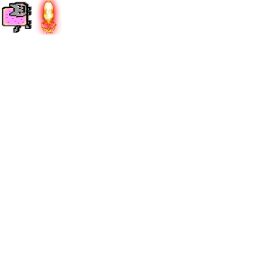
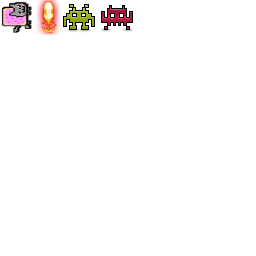
Tutorial 11, added enemies, new Global class for textures

Changed region(s): [[0.2188, 0.0, 0.5312, 0.125]]

diff --git a/src/com/game/src/main/Game.java b/src/com/game/src/main/Game.java
@@ -1,6 +1,6 @@
 package com.game.src.main;
 
-import com.sun.imageio.plugins.png.PNGMetadata;
+
 import java.awt.Canvas;
 import java.awt.Dimension;
 import java.awt.Graphics;
@@ -8,13 +8,12 @@ import java.awt.event.KeyEvent;
 import java.awt.image.BufferStrategy;
 import java.awt.image.BufferedImage;
 import java.io.IOException;
-import java.nio.Buffer;
 import java.util.logging.Level;
 import java.util.logging.Logger;
 import javax.swing.JFrame;
 
 /**
- * TODO # tutorial #11;
+ * TODO # tutorial #12;
  *
  * @author Denis Mahmúd
  */
@@ -34,23 +33,31 @@ public class Game extends Canvas implements Runnable {
 
     private BufferedImage image = new BufferedImage(WIDTH, HEIGHT, BufferedImage.TYPE_INT_RGB);
     private BufferedImage spriteSheet = null;
+    private BufferedImage background = null;
 
+    
+    private boolean is_shooting = false;
     private Player p;
     private Controller c;
+    private Textures tex;
 
     public void init() {
         requestFocus();
         BufferedImageLoader loader = new BufferedImageLoader();
         try {
             spriteSheet = loader.loadImage("/nyan_ship.png");
+            background = loader.loadImage("/background.png");
         } catch (IOException e) {
             e.printStackTrace();
         }
 
         addKeyListener(new KeyInput(this));
-
-        p = new Player(200, 200, this);
-        c = new Controller(this);
+        
+        // need before player and controller
+        tex = new Textures(this);
+        
+        p = new Player(200, 200, tex);
+        c = new Controller(this, tex);
     }
 
     ;
@@ -134,6 +141,9 @@ public class Game extends Canvas implements Runnable {
         //////// drawing stuff ////////
 
         g.drawImage(image, 0, 0, getWidth(), getHeight(), this);
+        
+        g.drawImage(background, 0, 0, null);
+        
         p.render(g);
         c.render(g);
         ////////////////////////////////
@@ -174,8 +184,9 @@ public class Game extends Canvas implements Runnable {
             p.setVelY(5);
         } else if (key == KeyEvent.VK_UP) {
             p.setVelY(- 5);
-        } else if (key == KeyEvent.VK_SPACE) {
-            c.addBullet(new Bullet(p.getX(), p.getY(), this));
+        } else if (key == KeyEvent.VK_SPACE && !is_shooting) {
+            is_shooting = true;
+            c.addBullet(new Bullet(p.getX(), p.getY(), tex));
         }
 
     }
@@ -192,6 +203,8 @@ public class Game extends Canvas implements Runnable {
             p.setVelY(0);
         } else if (key == KeyEvent.VK_UP) {
             p.setVelY(0);
+        } else if (key == KeyEvent.VK_SPACE) {
+            is_shooting = false;
         }
 
     }

diff --git a/src/com/game/src/main/Controller.java b/src/com/game/src/main/Controller.java
@@ -12,13 +12,20 @@ import java.util.LinkedList;
 public class Controller {
 
     private LinkedList<Bullet> b = new LinkedList<Bullet>();
+    private LinkedList<Enemy> e = new LinkedList<Enemy>();
 
     Game game;
-
+    Textures tex;
+    
     Bullet TempBullet;
-
-    public Controller(Game game) {
+    Enemy TempEnemy;
+    public Controller(Game game, Textures tex) {
         this.game = game;
+        
+        for (int x = 0; x < Game.WIDTH * Game.SCALE; x += 64) {
+            addEnemy(new Enemy(x, 0, tex));
+        }
+        
     }
 
     public void tick() {
@@ -31,12 +38,25 @@ public class Controller {
 
             TempBullet.tick();
         }
+        
+         for (int i = 0; i < e.size(); i++) {
+            TempEnemy = e.get(i);
+
+            TempEnemy.tick();
+        }
+        
     }
 
     public void render(Graphics g) {
         for (int i = 0; i < b.size(); i++) {
             TempBullet = b.get(i);
             TempBullet.render(g);
+        }
+        
+        
+        for (int i = 0; i < e.size(); i++) {
+            TempEnemy = e.get(i);
+            TempEnemy.render(g);
         }
     }
 
@@ -46,6 +66,13 @@ public class Controller {
 
     public void removeBullet(Bullet block) {
         b.remove(block);
+    }
+    public void addEnemy(Enemy block) {
+        e.add(block);
+    }
+
+    public void removeEnemy(Enemy block) {
+        e.remove(block);
     }
 
 }

diff --git a/src/com/game/src/main/Player.java b/src/com/game/src/main/Player.java
@@ -18,16 +18,14 @@ public class Player {
     private double velX = 0;
     private double velY = 0;
     
-    private BufferedImage player;
+    private Textures tex;
     
-    public Player (double x, double y, Game game) {
+    public Player (double x, double y, Textures tex) {
         
         this.x = x;
         this.y = y;
-        
-        SpriteSheet ss = new SpriteSheet(game.getSpriteSheet());
-        
-        player = ss.grabImage(1, 1, 32, 32);
+        this.tex = tex;
+
     }
     
     public void tick() {
@@ -52,7 +50,7 @@ public class Player {
     
     public void render(Graphics g) {
         
-        g.drawImage(player, (int) x, (int) y, null);
+        g.drawImage(tex.player, (int) x, (int) y, null);
         
     }
 

diff --git a/src/com/game/src/main/Textures.java b/src/com/game/src/main/Textures.java
@@ -1,0 +1,30 @@
+/*
+ * To change this license header, choose License Headers in Project Properties.
+ * To change this template file, choose Tools | Templates
+ * and open the template in the editor.
+ */
+package com.game.src.main;
+
+import java.awt.image.BufferedImage;
+
+
+public class Textures {
+
+    public BufferedImage player, missile, enemy;
+    
+    private SpriteSheet ss;
+    
+    public Textures(Game game) {
+     ss = new SpriteSheet(game.getSpriteSheet());
+    
+     getTextures();
+     
+    }
+    
+    private void getTextures() {
+        player = ss.grabImage(1,1, 32,32);
+        missile = ss.grabImage(2,1, 32,32);
+        enemy = ss.grabImage(3,1, 32,32);
+    }
+    
+}

diff --git a/src/com/game/src/main/Bullet.java b/src/com/game/src/main/Bullet.java
@@ -13,14 +13,11 @@ public class Bullet {
     private double x;
     private double y;
 
-    BufferedImage image;
-
-    public Bullet(double x, double y, Game game) {
+    private Textures tex; 
+    public Bullet(double x, double y, Textures tex) {
         this.x = x;
         this.y = y;
-
-        SpriteSheet ss = new SpriteSheet(game.getSpriteSheet());
-        image = ss.grabImage(2, 1, 32, 32);
+        this.tex = tex;
     }
 
     public void tick() {
@@ -28,7 +25,7 @@ public class Bullet {
     }
 
     public void render(Graphics g) {
-        g.drawImage(image, (int) x, (int) y, null);
+        g.drawImage(tex.missile, (int) x, (int) y, null);
     }
 
     public double getX() {

diff --git a/src/com/game/src/main/Enemy.java b/src/com/game/src/main/Enemy.java
@@ -1,0 +1,30 @@
+/*
+ * To change this license header, choose License Headers in Project Properties.
+ * To change this template file, choose Tools | Templates
+ * and open the template in the editor.
+ */
+package com.game.src.main;
+
+import java.awt.Graphics;
+
+
+public class Enemy {
+    private double x,y;
+    
+    private Textures tex;
+    
+    
+    public Enemy(double x, double y, Textures tex) {
+        this.x =x;
+        this.y = y;
+        this.tex = tex;
+    }
+    
+    public void tick() {
+        y += 1;
+    }
+    public void render (Graphics g) {
+        g.drawImage(tex.enemy, (int) x, (int) y, null);
+    }
+    
+}
